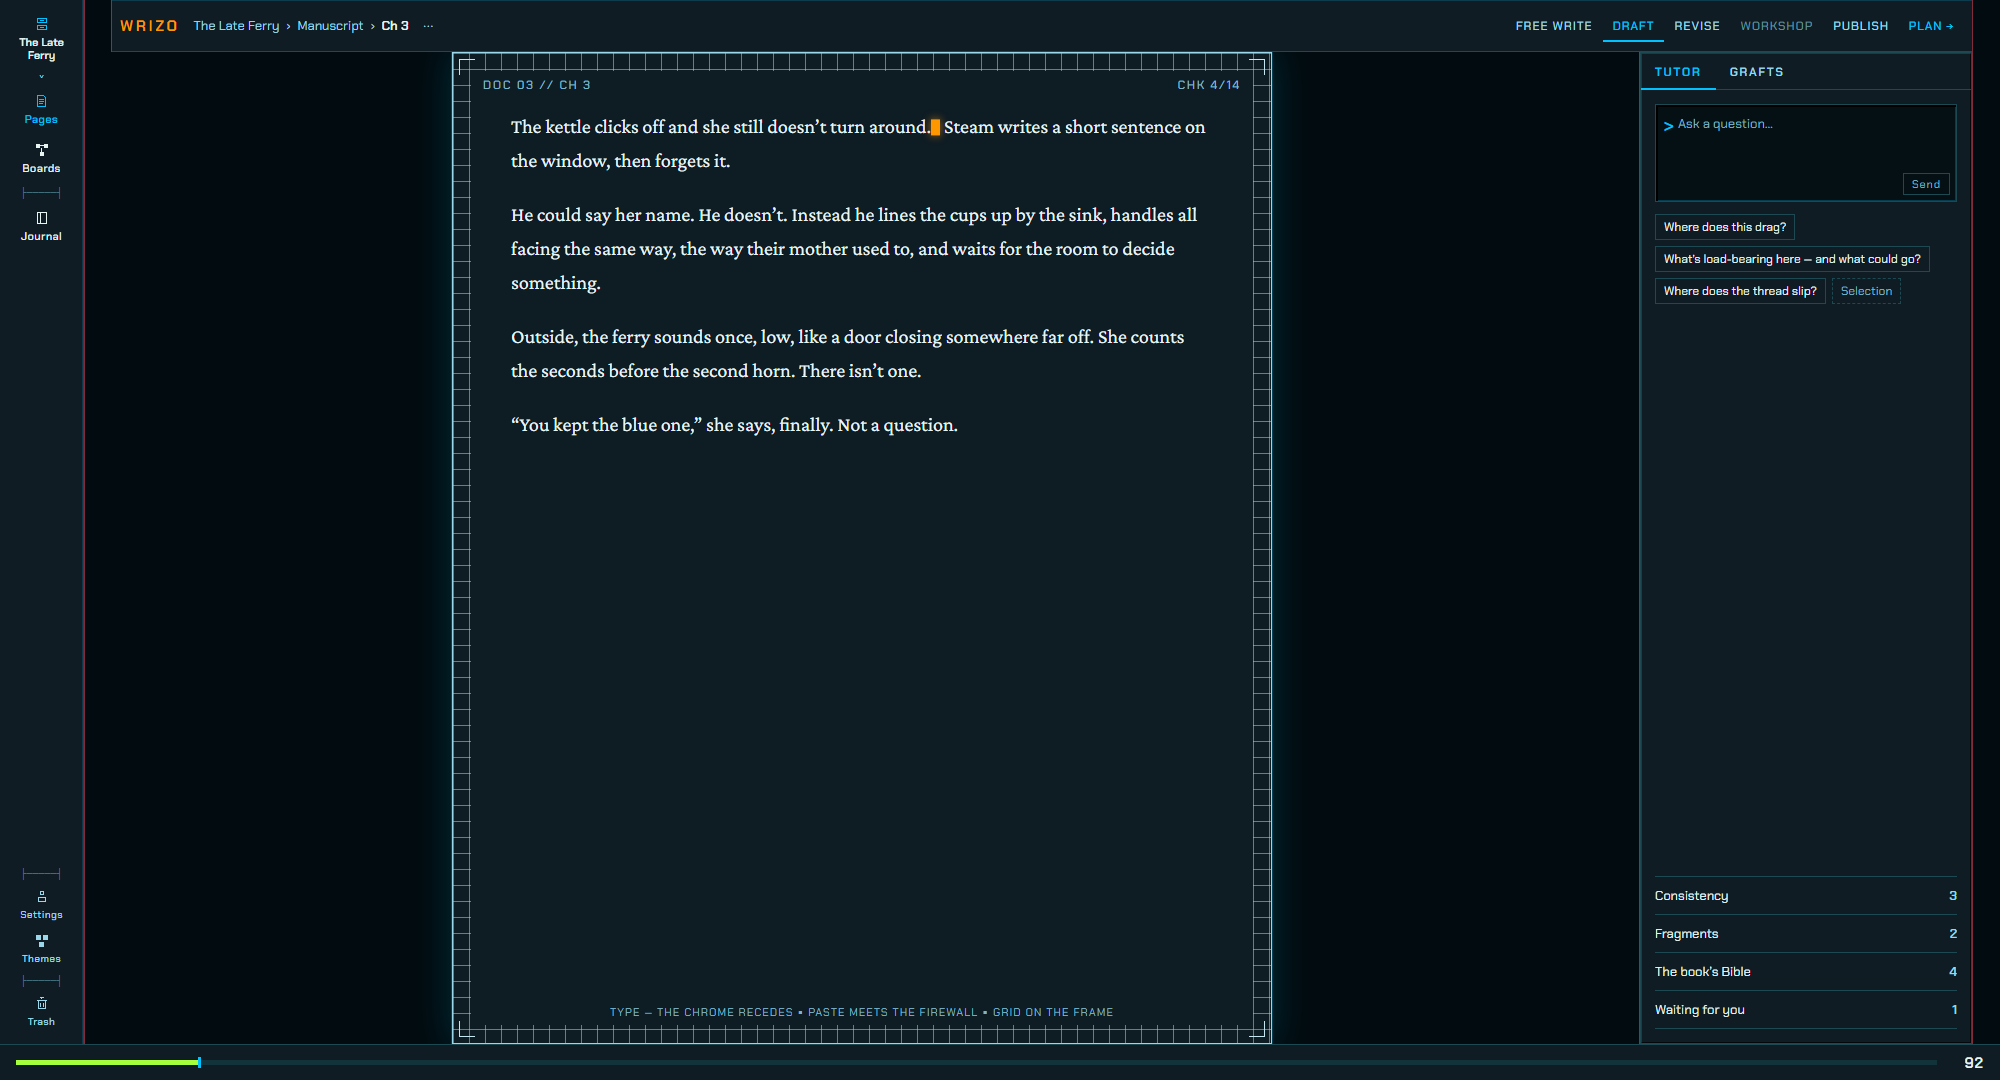
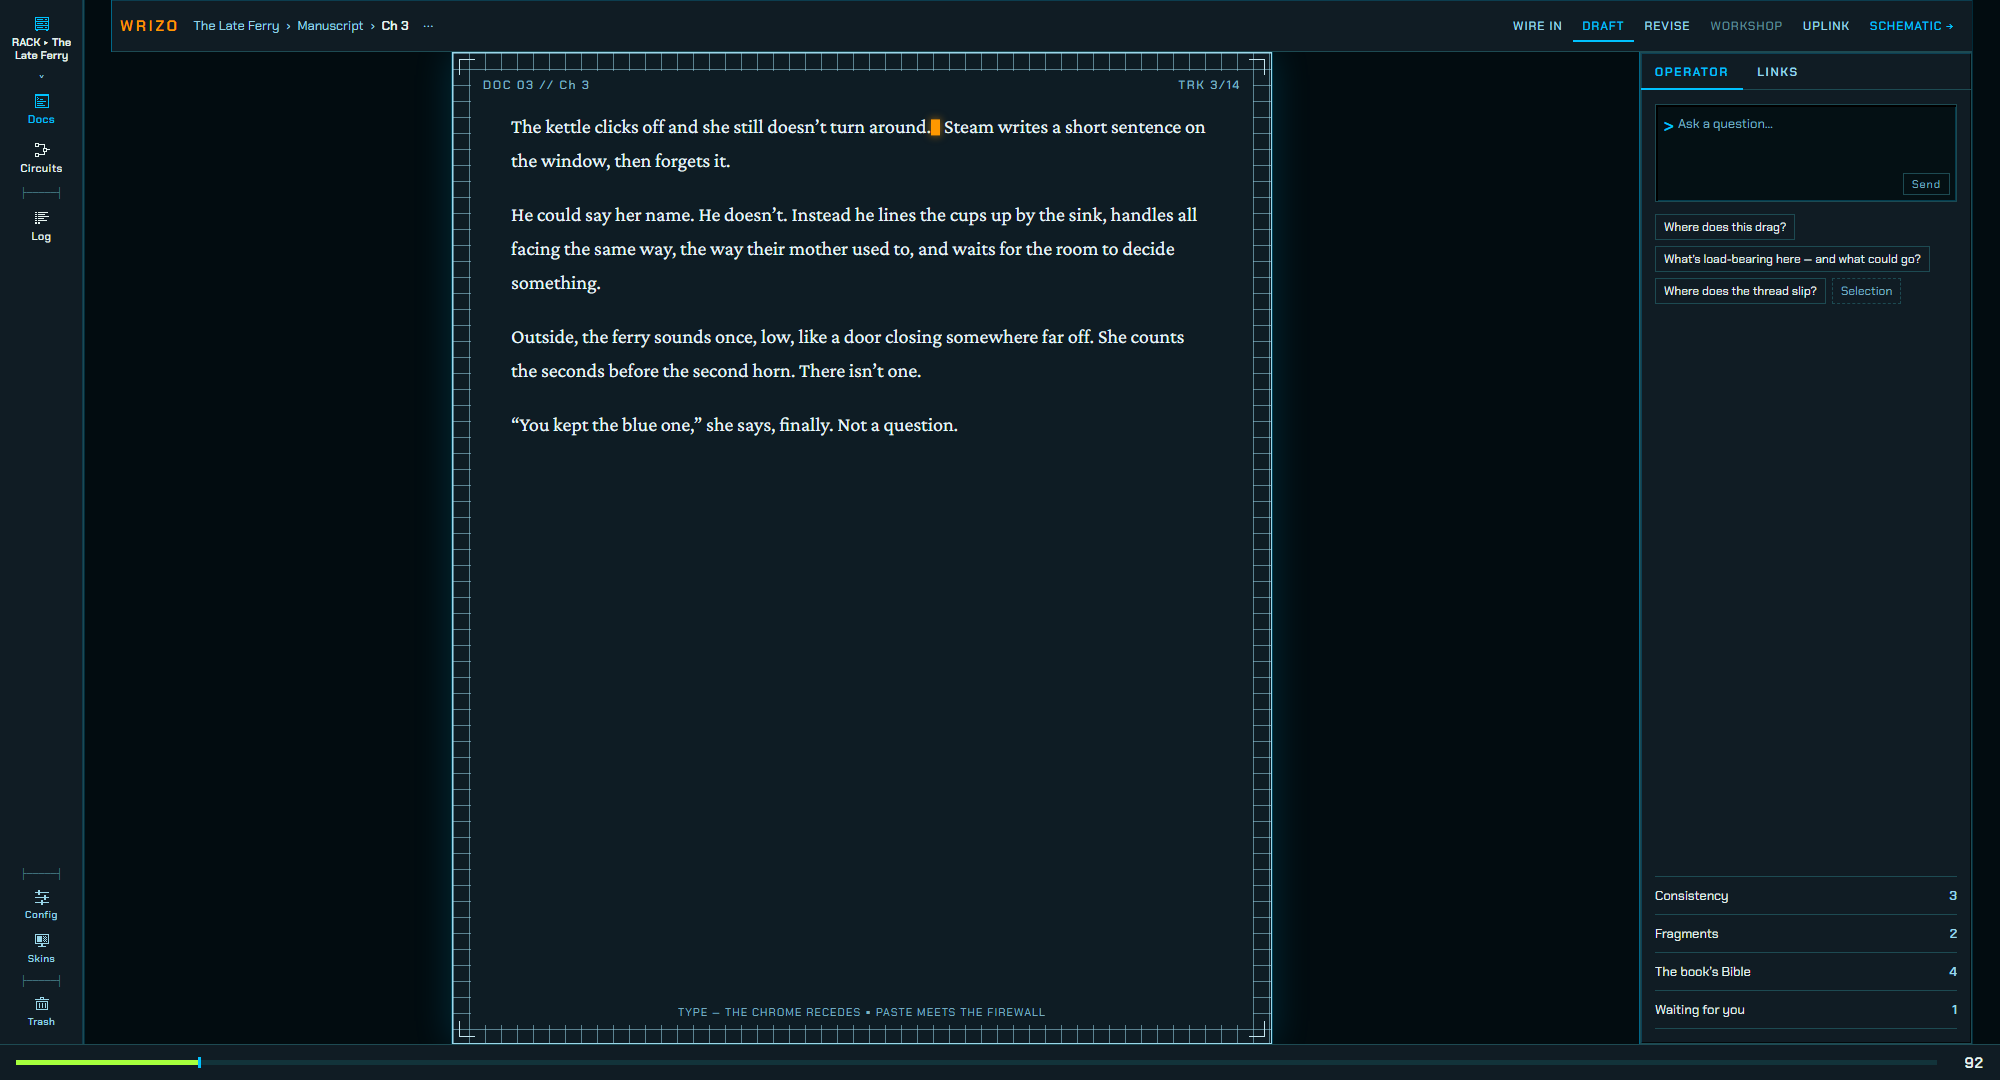
Keep shared tags off a selected card, and one link door on its edge.
The Links frame no longer lists tags for a card. Drag to link sits on the Link glyph, and the corner cross is gone. The eight stills match this round.

diff --git a/docs/mockups/flux-v2/index.html b/docs/mockups/flux-v2/index.html
@@ -167,6 +167,7 @@
   .brackets i:nth-child(3)::before, .brackets i:nth-child(3)::after { top: auto; bottom: 0; }
   .brackets i:nth-child(4)::before, .brackets i:nth-child(4)::after { top: auto; bottom: 0; left: auto; right: 0; }
   .board { width: 100%; background: var(--page); border: 1px solid #9AD7EA; overflow: hidden; box-shadow: 0 0 0 1px rgba(0, 194, 255, .2), 0 0 28px rgba(0, 194, 255, .14); }
+  html[data-frame='grafts'] .shared { display: none; }
   html[data-frame='grafts'] .page, html[data-frame='board'] .page,
   html[data-frame='page-both-panels'] .board, html[data-frame='pages-popout'] .board,
   html[data-frame='tutor'] .board, html[data-frame='flux-light'] .board, html[data-frame='glitch'] .board { display: none; }
@@ -184,10 +185,14 @@
     linear-gradient(#C5E6F0, #C5E6F0) right top / 14px 1px no-repeat, linear-gradient(#C5E6F0, #C5E6F0) right top / 1px 14px no-repeat,
     linear-gradient(#C5E6F0, #C5E6F0) left bottom / 14px 1px no-repeat, linear-gradient(#C5E6F0, #C5E6F0) left bottom / 1px 14px no-repeat,
     linear-gradient(#C5E6F0, #C5E6F0) right bottom / 14px 1px no-repeat, linear-gradient(#C5E6F0, #C5E6F0) right bottom / 1px 14px no-repeat; }
-  .reticle::after { content: ''; position: absolute; top: -14px; right: -14px; width: 11px; height: 11px; border: 1px solid #C5E6F0;
-    background: linear-gradient(#C5E6F0, #C5E6F0) center / 1px 100% no-repeat, linear-gradient(#C5E6F0, #C5E6F0) center / 100% 1px no-repeat; }
-  .tip { display: none; position: absolute; left: 168px; top: 42px; z-index: 5; padding: 3px 7px; background: var(--panel); border: 1px solid var(--line); font-size: 12px; }
-  html[data-frame='grafts'] .tip { display: block; }
+  .tip { display: none; }
+  html[data-frame='grafts'] .bcard[aria-selected='true'] .knob::after {
+    content: 'Drag to link';
+    position: absolute; right: 22px; top: -6px; z-index: 6;
+    padding: 3px 7px; background: var(--panel); border: 1px solid var(--line);
+    font-family: var(--ui); font-size: 12px; letter-spacing: 0; text-transform: none;
+    font-weight: 400; color: var(--text); white-space: nowrap;
+  }
   .tabs { display: flex; border-bottom: 1px solid var(--line); }
   .tab { padding: 11px 14px 8px; font-size: 12px; font-weight: 600; letter-spacing: .14em; text-transform: uppercase; color: var(--label); border-bottom: 2px solid transparent; margin-bottom: -1px; }
   html[data-frame='grafts'] .tab-grafts, html[data-frame='page-both-panels'] .tab-tutor,
@@ -403,7 +408,6 @@
             <div class="xy">430 · 250</div>
             <span class="resz" aria-hidden="true"></span>
           </article>
-          <div class="tip">Drag to link</div>
         </div>
       </div>
       <div class="track track-r">
@@ -437,9 +441,11 @@
             <div class="gr"><span class="mini" style="width:14px;height:18px"></span><span class="t">Ch 2</span></div>
             <div class="lab gl">Sources</div>
             <div class="gr"><span class="gk-src"></span><span class="t">Harbour photo, 1962</span><span class="plc">Log</span></div>
+            <div class="shared">
             <div class="lab gl">Shared tags</div>
             <div class="gr"><span class="tagm">revised</span><span class="t">Ch 4</span></div>
             <div class="gr"><span class="tagm">ferry</span><span class="t">Salt</span><span class="plc">Short stories</span></div>
+            </div>
           </div>
         </aside>
       </div>
